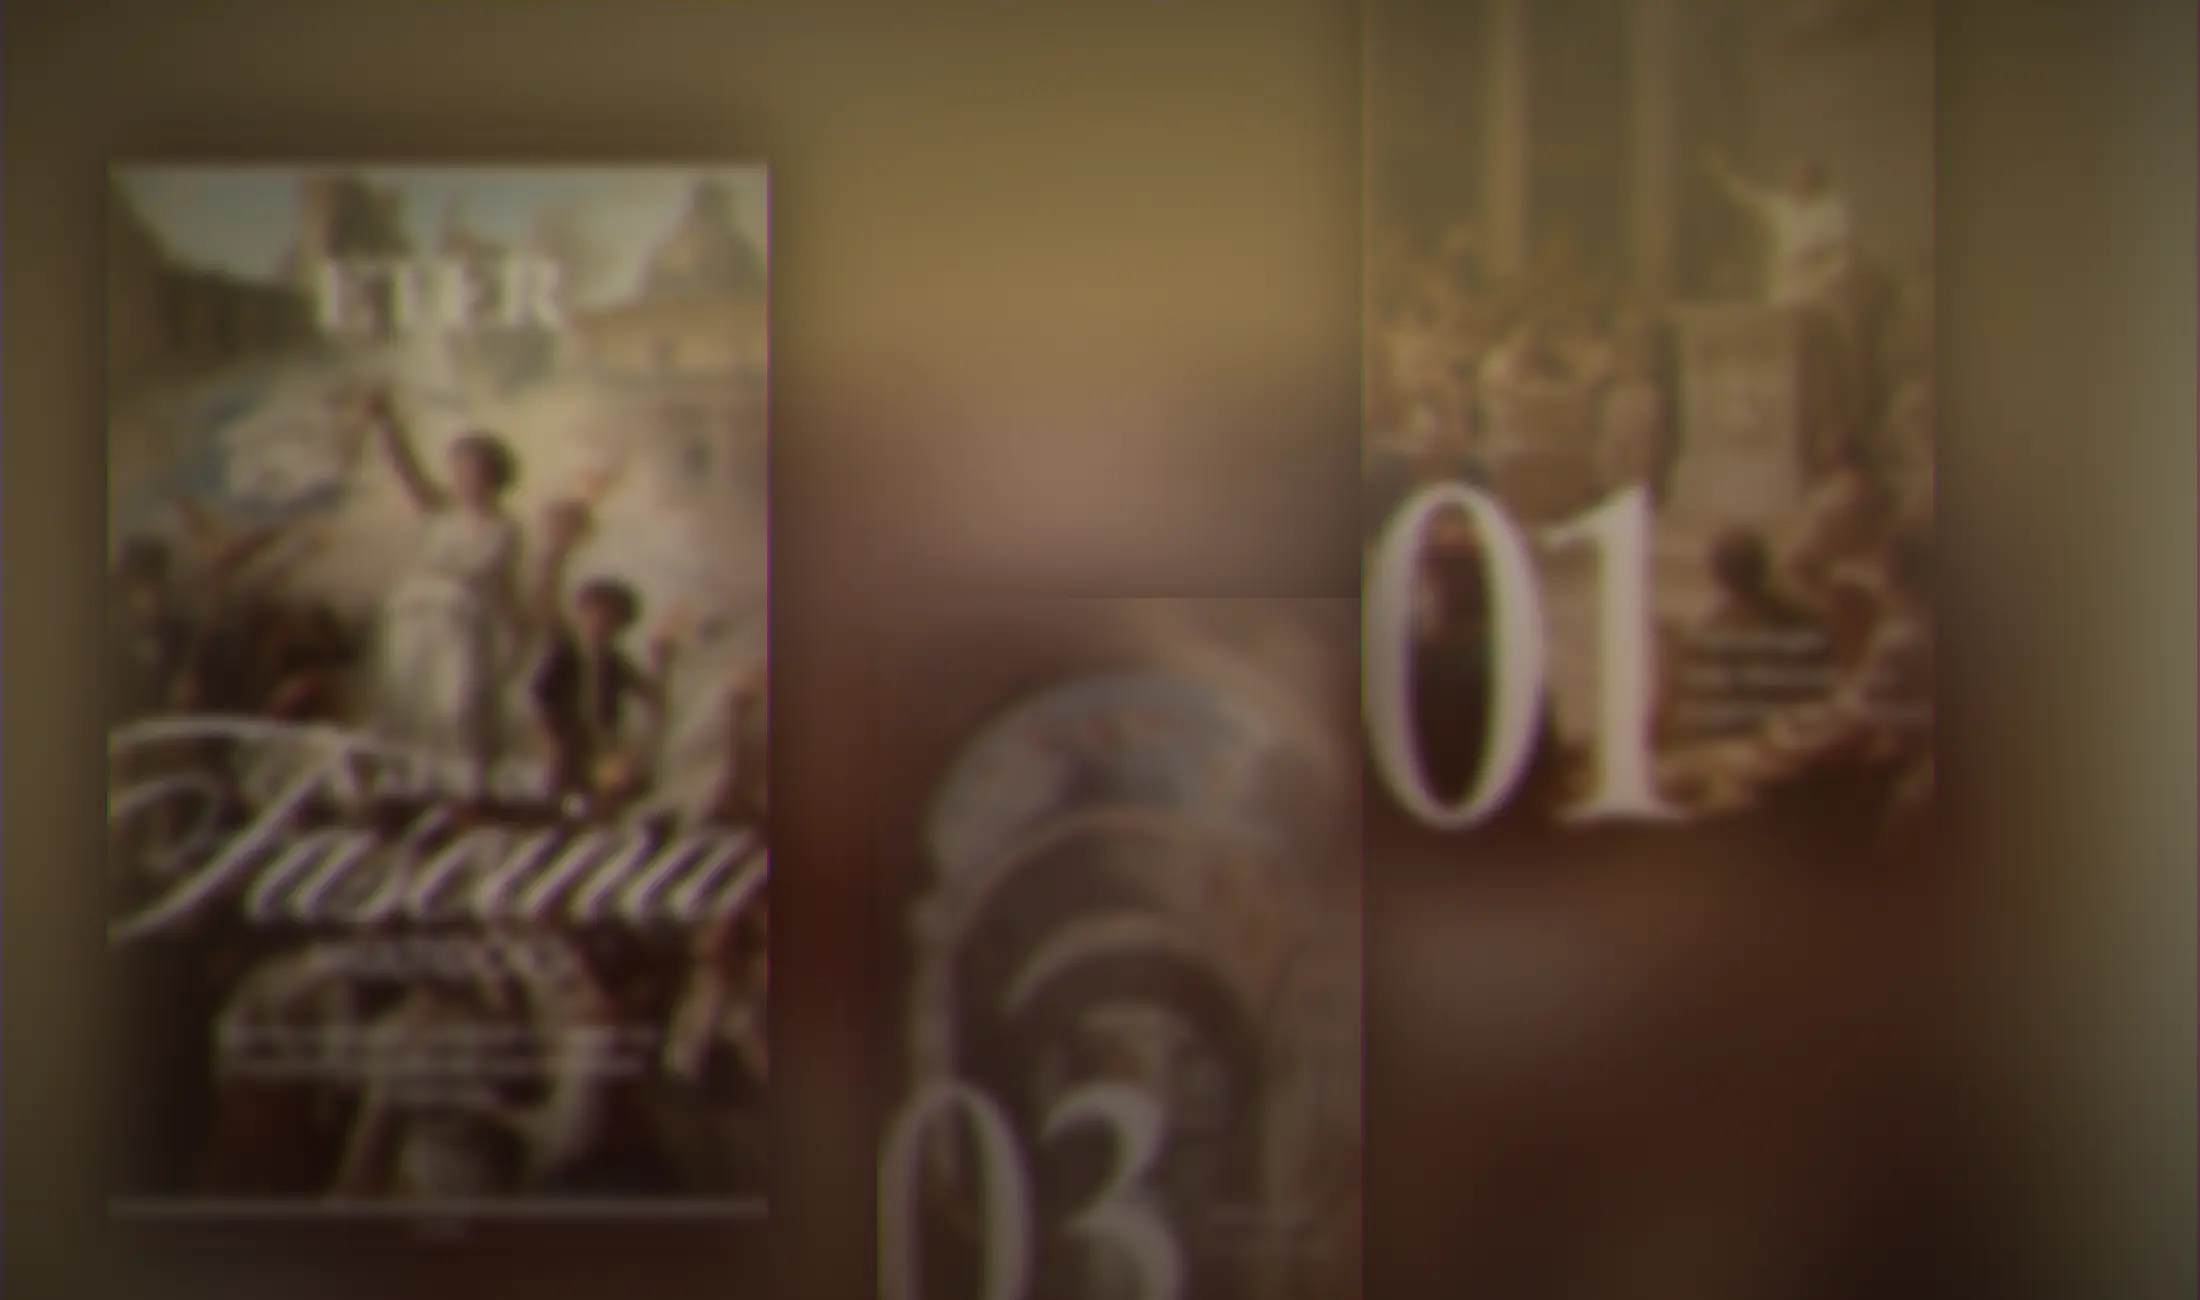
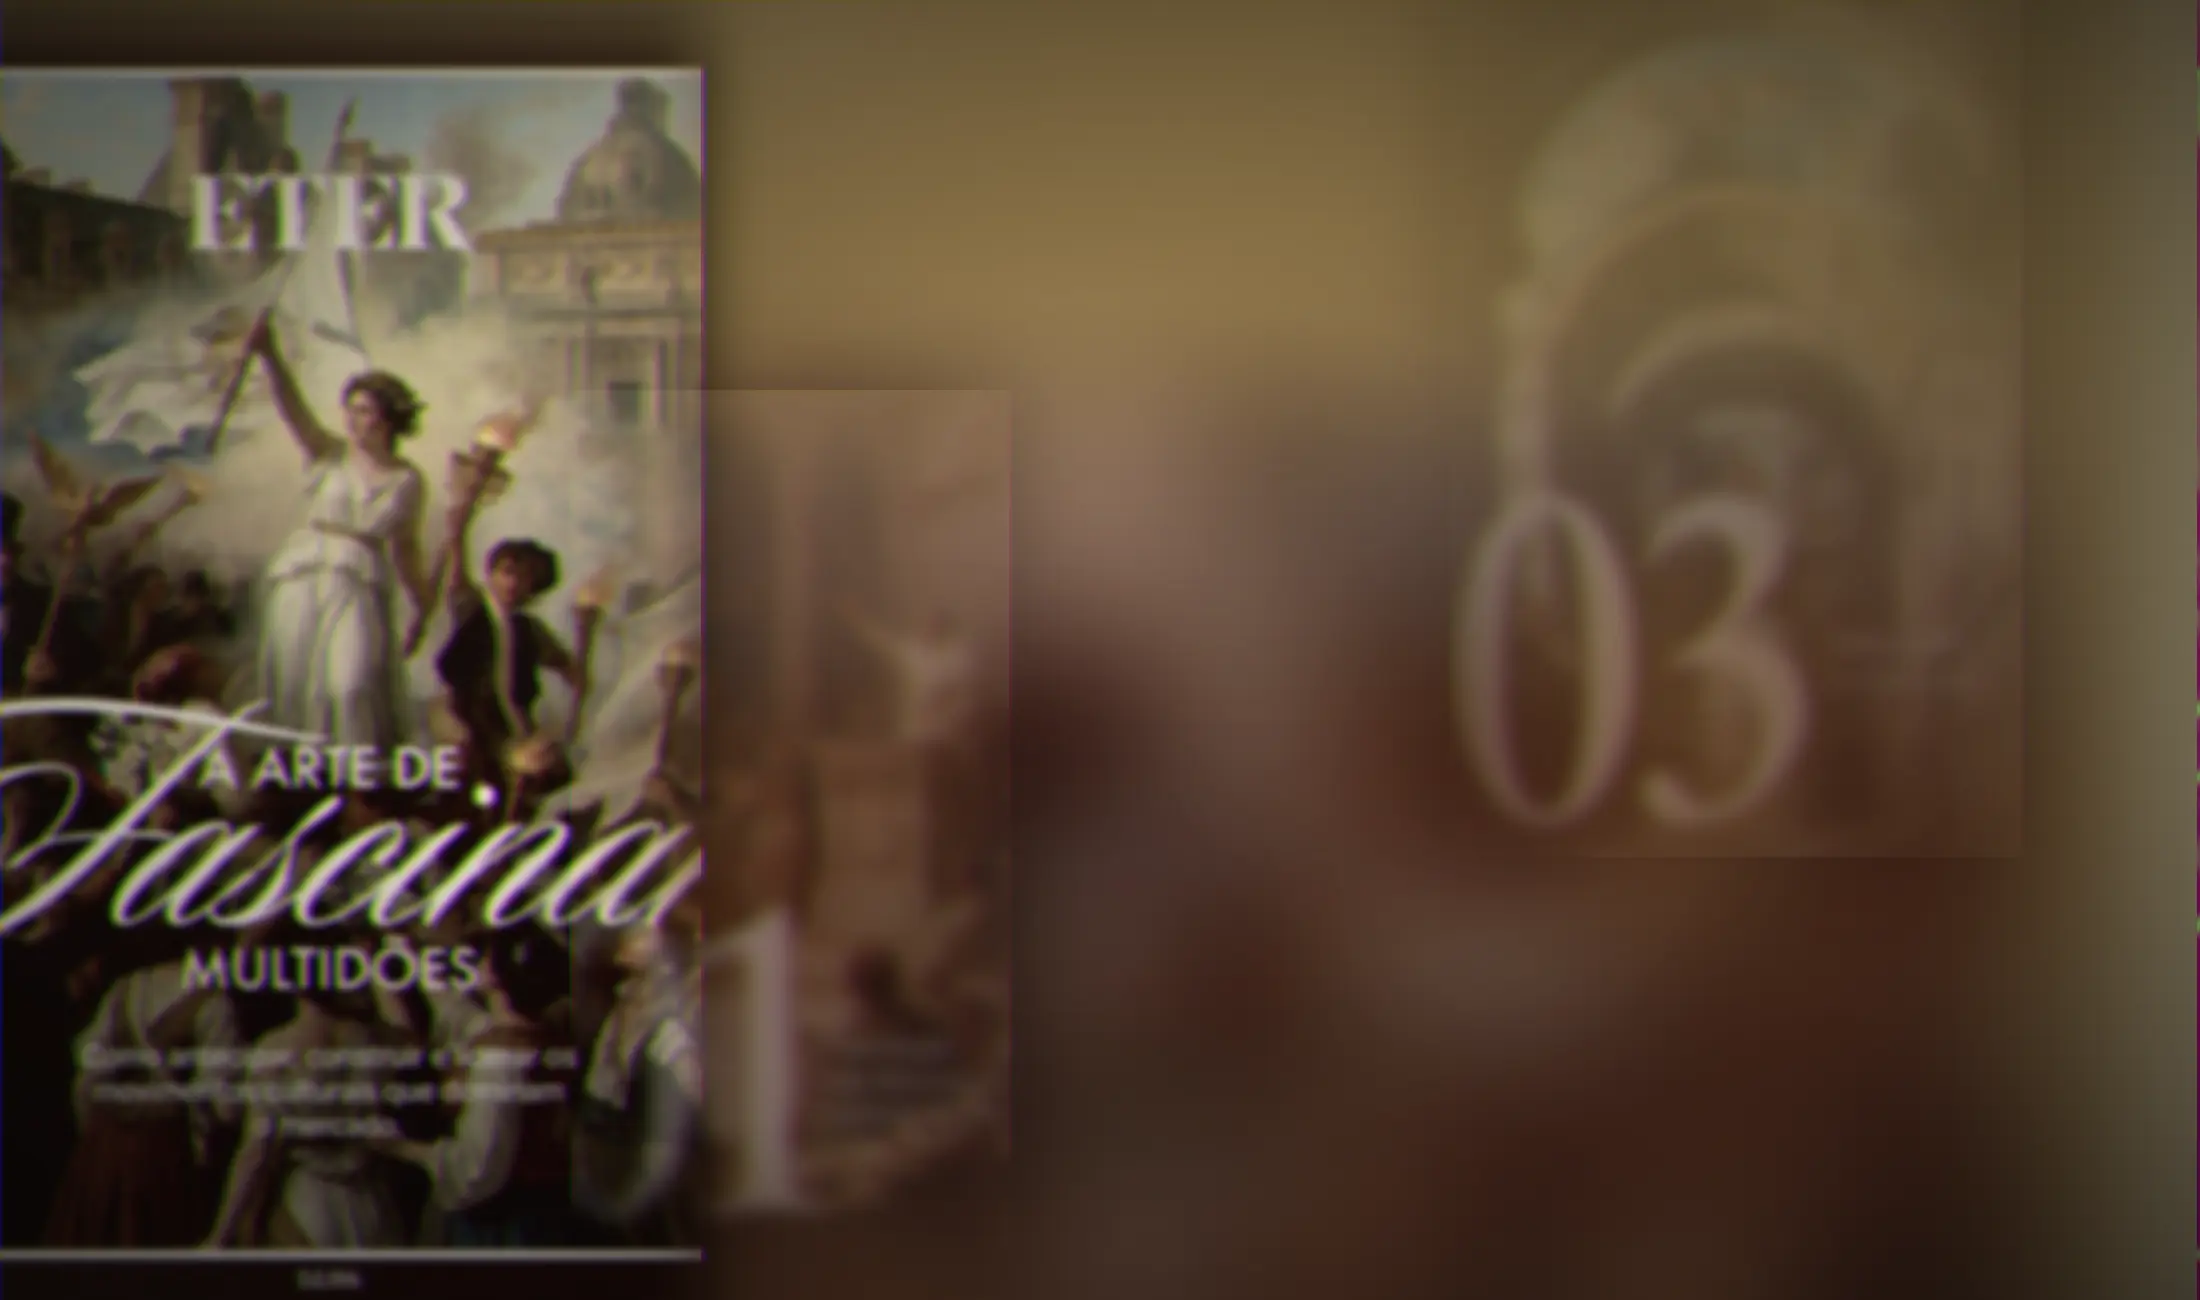
Arte com heroi no terco esquerdo

diff --git a/premium/premium.css b/premium/premium.css
@@ -5,9 +5,9 @@
    Duas composições de verdade: uma coluna no celular, duas no desktop.
    ═══════════════════════════════════════════════════════════════ */
 
-@font-face{font-family:'TRJN';src:url('fontes/trjn-medium.woff2?v=202608231426') format('woff2');font-weight:500;font-display:swap}
-@font-face{font-family:'Sloop';src:url('fontes/sloop.woff2?v=202608231426') format('woff2');font-weight:400;font-display:swap}
-@font-face{font-family:'FuturaE';src:url('fontes/futura-bold.woff2?v=202608231426') format('woff2');font-weight:700;font-display:swap}
+@font-face{font-family:'TRJN';src:url('fontes/trjn-medium.woff2?v=202608231430') format('woff2');font-weight:500;font-display:swap}
+@font-face{font-family:'Sloop';src:url('fontes/sloop.woff2?v=202608231430') format('woff2');font-weight:400;font-display:swap}
+@font-face{font-family:'FuturaE';src:url('fontes/futura-bold.woff2?v=202608231430') format('woff2');font-weight:700;font-display:swap}
 
 :root{
   color-scheme:light;
@@ -214,7 +214,7 @@ body.lendo .topo{display:none}
      que foi exatamente a queixa. Agora ela é translúcida sobre um desfoque
      do que está atrás: a cor e as formas da edição atravessam, e o texto
      continua sobre uma superfície uniforme o bastante para ser lido. */
-  background-color:rgb(var(--papel-rgb)/.90);
+  background-color:rgb(var(--papel-rgb)/.87);
   -webkit-backdrop-filter:blur(46px) saturate(1.1) brightness(1.06);
   backdrop-filter:blur(46px) saturate(1.1) brightness(1.06);
   background-image:

diff --git a/demo/index.html b/demo/index.html
@@ -11,8 +11,8 @@
 <link rel="preconnect" href="https://fonts.googleapis.com">
 <link rel="preconnect" href="https://fonts.gstatic.com" crossorigin>
 <link rel="stylesheet" href="https://fonts.googleapis.com/css2?family=Inter:wght@400;500;600;700&display=swap">
-<link rel="stylesheet" href="../premium/premium.css?v=202608231426">
-  <link rel="stylesheet" href="../premium/estetica-v2.css?v=202608231426">
+<link rel="stylesheet" href="../premium/premium.css?v=202608231430">
+  <link rel="stylesheet" href="../premium/estetica-v2.css?v=202608231430">
   <meta name="theme-color" content="#FFFBF3">
 </head>
 <body>
@@ -223,6 +223,6 @@
    motor ler o endereço */
 if (!location.search.includes('ed=')) history.replaceState(null, '', '?ed=007' + location.hash);
 </script>
-<script src="../premium/premium.js?v=202608231426"></script>
+<script src="../premium/premium.js?v=202608231430"></script>
 </body>
 </html>

diff --git a/assinatura-anual/index.html b/assinatura-anual/index.html
@@ -6,7 +6,7 @@
 <title>Complete o ano — Revista ETER</title>
 <meta name="robots" content="noindex">
 <meta name="theme-color" content="#F2EEE6">
-<link rel="stylesheet" href="../premium/premium.css?v=202608231426">
+<link rel="stylesheet" href="../premium/premium.css?v=202608231430">
 </head>
 <body class="pagina">
 
@@ -87,7 +87,7 @@
 
   let c;
   try {
-    c = (await (await fetch('../edicoes.json?v=202608231426')).json()).config;
+    c = (await (await fetch('../edicoes.json?v=202608231430')).json()).config;
   } catch (err) {
     console.warn('[eter] catálogo indisponível', err);
     return naoDeu('Não conseguimos carregar a oferta agora. Recarregue a página — seu passe está ativo de qualquer forma.');

diff --git a/privacidade/index.html b/privacidade/index.html
@@ -6,7 +6,7 @@
 <title>Política de Privacidade — Revista ETER</title>
 <meta name="robots" content="noindex">
 <meta name="theme-color" content="#F2EEE6">
-<link rel="stylesheet" href="../premium/premium.css?v=202608231426">
+<link rel="stylesheet" href="../premium/premium.css?v=202608231430">
 </head>
 <body class="pagina">
 
@@ -106,7 +106,7 @@
    para o Davi — nunca um colchete cru para o leitor. */
 (async () => {
   try {
-    const cfg = (await (await fetch('../edicoes.json?v=202608231426')).json()).config || {};
+    const cfg = (await (await fetch('../edicoes.json?v=202608231430')).json()).config || {};
     const e = cfg.empresa || {};
     const falta = t => `<span class="aguardando">${t}</span>`;
 

diff --git a/assinatura-anual.html b/assinatura-anual.html
@@ -6,7 +6,7 @@
 <title>Complete o ano — Revista ETER</title>
 <meta name="robots" content="noindex">
 <meta name="theme-color" content="#F2EEE6">
-<link rel="stylesheet" href="premium/premium.css?v=202608231426">
+<link rel="stylesheet" href="premium/premium.css?v=202608231430">
 </head>
 <body class="pagina">
 
@@ -87,7 +87,7 @@
 
   let c;
   try {
-    c = (await (await fetch('edicoes.json?v=202608231426')).json()).config;
+    c = (await (await fetch('edicoes.json?v=202608231430')).json()).config;
   } catch (err) {
     console.warn('[eter] catálogo indisponível', err);
     return naoDeu('Não conseguimos carregar a oferta agora. Recarregue a página — seu passe está ativo de qualquer forma.');

diff --git a/privacidade.html b/privacidade.html
@@ -6,7 +6,7 @@
 <title>Política de Privacidade — Revista ETER</title>
 <meta name="robots" content="noindex">
 <meta name="theme-color" content="#F2EEE6">
-<link rel="stylesheet" href="premium/premium.css?v=202608231426">
+<link rel="stylesheet" href="premium/premium.css?v=202608231430">
 </head>
 <body class="pagina">
 
@@ -106,7 +106,7 @@
    para o Davi — nunca um colchete cru para o leitor. */
 (async () => {
   try {
-    const cfg = (await (await fetch('edicoes.json?v=202608231426')).json()).config || {};
+    const cfg = (await (await fetch('edicoes.json?v=202608231430')).json()).config || {};
     const e = cfg.empresa || {};
     const falta = t => `<span class="aguardando">${t}</span>`;
 

diff --git a/001/index.html b/001/index.html
@@ -11,7 +11,7 @@
 <link rel="preconnect" href="https://fonts.googleapis.com">
 <link rel="preconnect" href="https://fonts.gstatic.com" crossorigin>
 <link rel="stylesheet" href="https://fonts.googleapis.com/css2?family=Inter:wght@400;500;600;700&display=swap">
-<link rel="stylesheet" href="../premium/premium.css?v=202608231426">
+<link rel="stylesheet" href="../premium/premium.css?v=202608231430">
 </head>
 <body>
 
@@ -212,6 +212,6 @@
   </div>
 </dialog>
 
-<script src="../premium/premium.js?v=202608231426"></script>
+<script src="../premium/premium.js?v=202608231430"></script>
 </body>
 </html>

diff --git a/002/index.html b/002/index.html
@@ -11,7 +11,7 @@
 <link rel="preconnect" href="https://fonts.googleapis.com">
 <link rel="preconnect" href="https://fonts.gstatic.com" crossorigin>
 <link rel="stylesheet" href="https://fonts.googleapis.com/css2?family=Inter:wght@400;500;600;700&display=swap">
-<link rel="stylesheet" href="../premium/premium.css?v=202608231426">
+<link rel="stylesheet" href="../premium/premium.css?v=202608231430">
 </head>
 <body>
 
@@ -212,6 +212,6 @@
   </div>
 </dialog>
 
-<script src="../premium/premium.js?v=202608231426"></script>
+<script src="../premium/premium.js?v=202608231430"></script>
 </body>
 </html>

diff --git a/003/index.html b/003/index.html
@@ -11,7 +11,7 @@
 <link rel="preconnect" href="https://fonts.googleapis.com">
 <link rel="preconnect" href="https://fonts.gstatic.com" crossorigin>
 <link rel="stylesheet" href="https://fonts.googleapis.com/css2?family=Inter:wght@400;500;600;700&display=swap">
-<link rel="stylesheet" href="../premium/premium.css?v=202608231426">
+<link rel="stylesheet" href="../premium/premium.css?v=202608231430">
 </head>
 <body>
 
@@ -212,6 +212,6 @@
   </div>
 </dialog>
 
-<script src="../premium/premium.js?v=202608231426"></script>
+<script src="../premium/premium.js?v=202608231430"></script>
 </body>
 </html>

diff --git a/004/index.html b/004/index.html
@@ -11,7 +11,7 @@
 <link rel="preconnect" href="https://fonts.googleapis.com">
 <link rel="preconnect" href="https://fonts.gstatic.com" crossorigin>
 <link rel="stylesheet" href="https://fonts.googleapis.com/css2?family=Inter:wght@400;500;600;700&display=swap">
-<link rel="stylesheet" href="../premium/premium.css?v=202608231426">
+<link rel="stylesheet" href="../premium/premium.css?v=202608231430">
 </head>
 <body>
 
@@ -212,6 +212,6 @@
   </div>
 </dialog>
 
-<script src="../premium/premium.js?v=202608231426"></script>
+<script src="../premium/premium.js?v=202608231430"></script>
 </body>
 </html>

diff --git a/005/index.html b/005/index.html
@@ -11,7 +11,7 @@
 <link rel="preconnect" href="https://fonts.googleapis.com">
 <link rel="preconnect" href="https://fonts.gstatic.com" crossorigin>
 <link rel="stylesheet" href="https://fonts.googleapis.com/css2?family=Inter:wght@400;500;600;700&display=swap">
-<link rel="stylesheet" href="../premium/premium.css?v=202608231426">
+<link rel="stylesheet" href="../premium/premium.css?v=202608231430">
 </head>
 <body>
 
@@ -212,6 +212,6 @@
   </div>
 </dialog>
 
-<script src="../premium/premium.js?v=202608231426"></script>
+<script src="../premium/premium.js?v=202608231430"></script>
 </body>
 </html>

diff --git a/006/index.html b/006/index.html
@@ -11,7 +11,7 @@
 <link rel="preconnect" href="https://fonts.googleapis.com">
 <link rel="preconnect" href="https://fonts.gstatic.com" crossorigin>
 <link rel="stylesheet" href="https://fonts.googleapis.com/css2?family=Inter:wght@400;500;600;700&display=swap">
-<link rel="stylesheet" href="../premium/premium.css?v=202608231426">
+<link rel="stylesheet" href="../premium/premium.css?v=202608231430">
 </head>
 <body>
 
@@ -212,6 +212,6 @@
   </div>
 </dialog>
 
-<script src="../premium/premium.js?v=202608231426"></script>
+<script src="../premium/premium.js?v=202608231430"></script>
 </body>
 </html>
